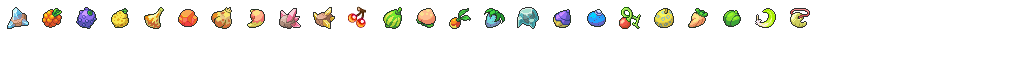
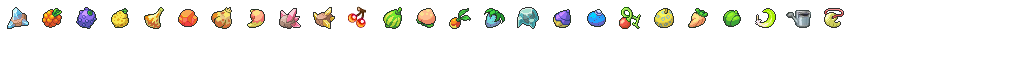
ItemBar now has selection box that shows which slot is selected
- Selection box moves via mouse scrolling
- PlayerHUD now implements LibGDX's InputProcessor interface to allow
for scrolling input, rather than handling events through its Stage
- Added new WATERING_CAN item and asset, to eventually allow for the use
of tools when one is selected in the ItemBar, but this is not yet
implemented

Changed region(s): [[0.75, 0.125, 0.8438, 0.4375]]

diff --git a/strange-place-core/src/ui/PlayerHUD.java b/strange-place-core/src/ui/PlayerHUD.java
@@ -3,12 +3,12 @@ package ui;
 import com.artemis.Entity;
 import com.badlogic.gdx.Gdx;
 import com.badlogic.gdx.Input;
+import com.badlogic.gdx.InputProcessor;
 import com.badlogic.gdx.Screen;
 import com.badlogic.gdx.graphics.Camera;
 import com.badlogic.gdx.math.Vector2;
 import com.badlogic.gdx.scenes.scene2d.Actor;
 import com.badlogic.gdx.scenes.scene2d.InputEvent;
-import com.badlogic.gdx.scenes.scene2d.InputListener;
 import com.badlogic.gdx.scenes.scene2d.Stage;
 import com.badlogic.gdx.scenes.scene2d.utils.ClickListener;
 import com.badlogic.gdx.utils.Array;
@@ -16,7 +16,6 @@ import com.badlogic.gdx.utils.Json;
 import com.badlogic.gdx.utils.viewport.ScreenViewport;
 import com.badlogic.gdx.utils.viewport.Viewport;
 
-import configs.CharConfig;
 import configs.CharConfig.InventoryConfig;
 import configs.CropDeserializer;
 import configs.CropConfig.Crop;
@@ -38,7 +37,6 @@ import observers.ConversationGraphObserver;
 import observers.InventoryObserver;
 import observers.ItemBarObserver;
 import observers.StoreInventoryObserver;
-import observers.ToolbarObserver;
 import saves.ProfileManager;
 import saves.ProfileObserver;
 import utility.CropConfigSystem;
@@ -56,6 +54,7 @@ import utility.CropConfigSystem;
  *
  */
 public class PlayerHUD implements Screen,
+								  InputProcessor,
 								  ProfileObserver,
 								  ConversationGraphObserver,
 								  InteractionObserver,
@@ -157,21 +156,9 @@ public class PlayerHUD implements Screen,
 		this.playerInventoryUI.getItemsActionWindow().addInventoryObserver(this);
 		this.itembarUI.addItemBarObserver(this);
 
+		//this.getStage().setScrollFocus(itembarUI);
+		
 		// Listeners
-		stage.addListener(new InputListener()
-		{
-			@Override
-			public boolean keyDown (InputEvent event, int keycode)
-			{
-				if(keycode == Input.Keys.E)
-				{
-					playerInventoryUI.setVisible(playerInventoryUI.isVisible() ? false : true);
-					playerInventoryUI.getItemsActionWindow().setVisible(playerInventoryUI.getItemsActionWindow().isVisible() ? false : true);
-				}
-				return false;
-			}
-		});
-
 		conversationUI.getCloseButton().addListener(new ClickListener()
 		{
 			@Override
@@ -552,6 +539,67 @@ public class PlayerHUD implements Screen,
 			default:
 				break;
 		}
+	}
+
+	@Override
+	public boolean keyDown(int keycode) {
+		if(keycode == Input.Keys.E)
+		{
+			playerInventoryUI.setVisible(playerInventoryUI.isVisible() ? false : true);
+			playerInventoryUI.getItemsActionWindow().setVisible(playerInventoryUI.getItemsActionWindow().isVisible() ? false : true);
+		}
+		return false;
+	}
+
+	@Override
+	public boolean keyUp(int keycode) {
+		// TODO Auto-generated method stub
+		return false;
+	}
+
+	@Override
+	public boolean keyTyped(char character) {
+		// TODO Auto-generated method stub
+		return false;
+	}
+
+	@Override
+	public boolean touchDown(int screenX, int screenY, int pointer, int button) {
+		// TODO Auto-generated method stub
+		return false;
+	}
+
+	@Override
+	public boolean touchUp(int screenX, int screenY, int pointer, int button) {
+		// TODO Auto-generated method stub
+		return false;
+	}
+
+	@Override
+	public boolean touchDragged(int screenX, int screenY, int pointer) {
+		// TODO Auto-generated method stub
+		return false;
+	}
+
+	@Override
+	public boolean mouseMoved(int screenX, int screenY) {
+		// TODO Auto-generated method stub
+		return false;
+	}
+
+	@Override
+	public boolean scrolled(int amount)
+	{
+		Gdx.app.debug(TAG, "Scrolled for amount " + amount);
+		if(amount == 1)
+		{
+			itembarUI.moveSelectedRight();
+		}
+		else
+		{
+			itembarUI.moveSelectedLeft();
+		}
+		return false;
 	}
 	
 	// - - - - - - - - - - - - - - -

diff --git a/strange-place-core/src/ui/ItembarUI.java b/strange-place-core/src/ui/ItembarUI.java
@@ -1,5 +1,6 @@
 package ui;
 
+import com.badlogic.gdx.scenes.scene2d.ui.Image;
 import com.badlogic.gdx.scenes.scene2d.ui.Table;
 import com.badlogic.gdx.scenes.scene2d.ui.Window;
 import com.badlogic.gdx.utils.Array;
@@ -20,6 +21,7 @@ public class ItembarUI extends Window implements ItemBarSubject
 	private Array<InventorySlot> inventorySlots;
 	
 	private int selectedIndex;
+	private Image selectedOverlay;
 	
 	private final int SLOT_WIDTH = 32;
 	private final int SLOT_HEIGHT = 32;
@@ -34,14 +36,16 @@ public class ItembarUI extends Window implements ItemBarSubject
 		layoutTable = new Table();
 		layoutTable.padLeft(10);
 		
-		selectedIndex = 0;
-		
 		for(int i = 0; i < 10; i++)
 		{
 			InventorySlot newSlot = new InventorySlot(i);
 			inventorySlots.add(newSlot);
 			layoutTable.add(newSlot).size(SLOT_WIDTH, SLOT_HEIGHT).padRight(10);
 		}
+		
+		selectedIndex = 0;
+		selectedOverlay = new Image(AssetHandler.ITEMBAR_TEXTUREATLAS.createSprite("toolbar-selection-overlay"));
+		inventorySlots.get(selectedIndex).add(selectedOverlay);
 		
 		this.add(layoutTable).row();
 		
@@ -55,6 +59,26 @@ public class ItembarUI extends Window implements ItemBarSubject
 			InventorySlot itemBarSlot = inventorySlots.get(i);
 			InventorySlot newSlot = newSlots.get(i);
 			inventorySlots.get(i).addItem(newSlot.getInventoryItem(), newSlot.getNumItems());
+		}
+	}
+	
+	public void moveSelectedRight()
+	{
+		if(selectedIndex < 9)
+		{
+			inventorySlots.get(selectedIndex).removeActor(selectedOverlay);
+			selectedIndex += 1;
+			inventorySlots.get(selectedIndex).add(selectedOverlay);
+		}
+	}
+	
+	public void moveSelectedLeft()
+	{
+		if(selectedIndex > 0)
+		{
+			inventorySlots.get(selectedIndex).removeActor(selectedOverlay);
+			selectedIndex -= 1;
+			inventorySlots.get(selectedIndex).add(selectedOverlay);
 		}
 	}
 

diff --git a/strange-place-core/src/game/MainGameScreen.java b/strange-place-core/src/game/MainGameScreen.java
@@ -12,6 +12,9 @@ import com.badlogic.gdx.graphics.OrthographicCamera;
 import com.badlogic.gdx.maps.tiled.renderers.OrthogonalTiledMapRenderer;
 import com.badlogic.gdx.maps.tiled.tiles.AnimatedTiledMapTile;
 import com.badlogic.gdx.math.Vector2;
+import com.badlogic.gdx.scenes.scene2d.EventListener;
+import com.badlogic.gdx.scenes.scene2d.InputEvent;
+import com.badlogic.gdx.scenes.scene2d.InputListener;
 
 import ecs.components.Position;
 import ecs.components.Sprite;
@@ -101,12 +104,16 @@ public class MainGameScreen implements Screen
 
 		multiplexer = new InputMultiplexer();
 		multiplexer.addProcessor(playerHUD.getStage());
+		multiplexer.addProcessor(playerHUD);
 
 		multiplexer.addProcessor(playerInput);
 
-		Gdx.input.setInputProcessor(multiplexer);
+		//Gdx.input.setInputProcessor(multiplexer);
 		
 		ProfileManager.getInstance().addObserver(mapManager);
+		ProfileManager.getInstance().addObserver(playerHUD);
+		
+		//ProfileManager.getInstance().addObserver(mapManager);
 	}
 	
 	@Override
@@ -114,8 +121,8 @@ public class MainGameScreen implements Screen
 	{
 		Gdx.input.setInputProcessor(multiplexer);
 		
-		ProfileManager.getInstance().addObserver(mapManager);
-		ProfileManager.getInstance().addObserver(playerHUD);
+		//ProfileManager.getInstance().addObserver(mapManager);
+		//ProfileManager.getInstance().addObserver(playerHUD);
 		
 		setGameState(GameState.LOADING);
 		

diff --git a/strange-place-core/src/inventory/items/InventoryItem.java b/strange-place-core/src/inventory/items/InventoryItem.java
@@ -27,6 +27,7 @@ public class InventoryItem extends Image
 		persim_berry,
 		lum_berry,
 		sitrus_berry,
+		watering_can,
 		none;
 	}
 
@@ -96,8 +97,6 @@ public class InventoryItem extends Image
 	public InventoryItem(TextureRegion textureRegion,
 						 ItemTypeID itemTypeID,
 						 int itemAttributes,
-						 int itemUseType,
-						 int itemUseTypeValue,
 						 int itemValue)
 	{
 		super(textureRegion);
